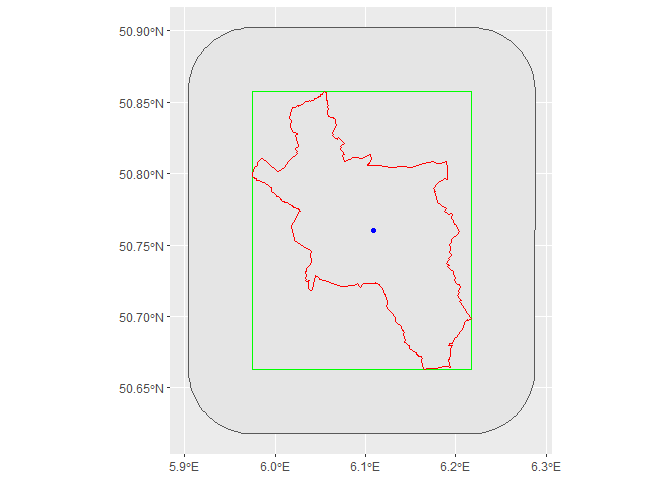
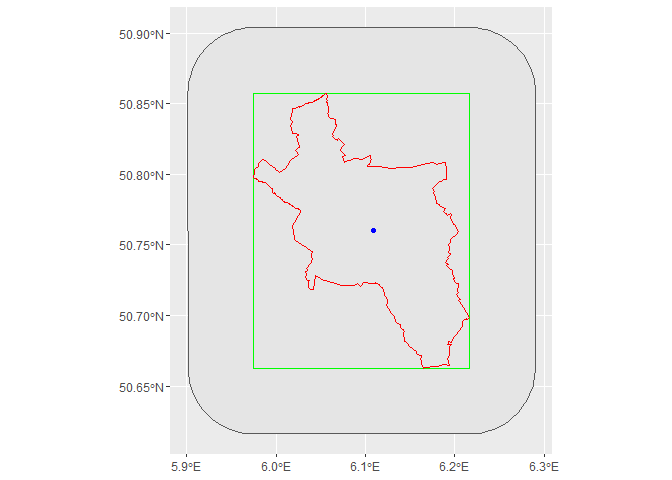
enh(get_extent): epsg:3034

diff --git a/NEWS.md b/NEWS.md
@@ -1,0 +1,15 @@
+# version 0.5.12
+
+## features
+
+- `is_municipality()` is no longer an internal function
+
+
+## enhancements
+
+- `get_extent()` with `buffer = ...` now buffers the bounding box in EPSG:3034 instead of EPSG:25832
+
+
+## bug fixes 
+
+- 

diff --git a/README.md b/README.md
@@ -31,7 +31,7 @@ and load the package via
 
 ``` r
 library(vg250)
-#> 0.5.11
+#> 0.5.12
 ```
 
 ## Getting started
